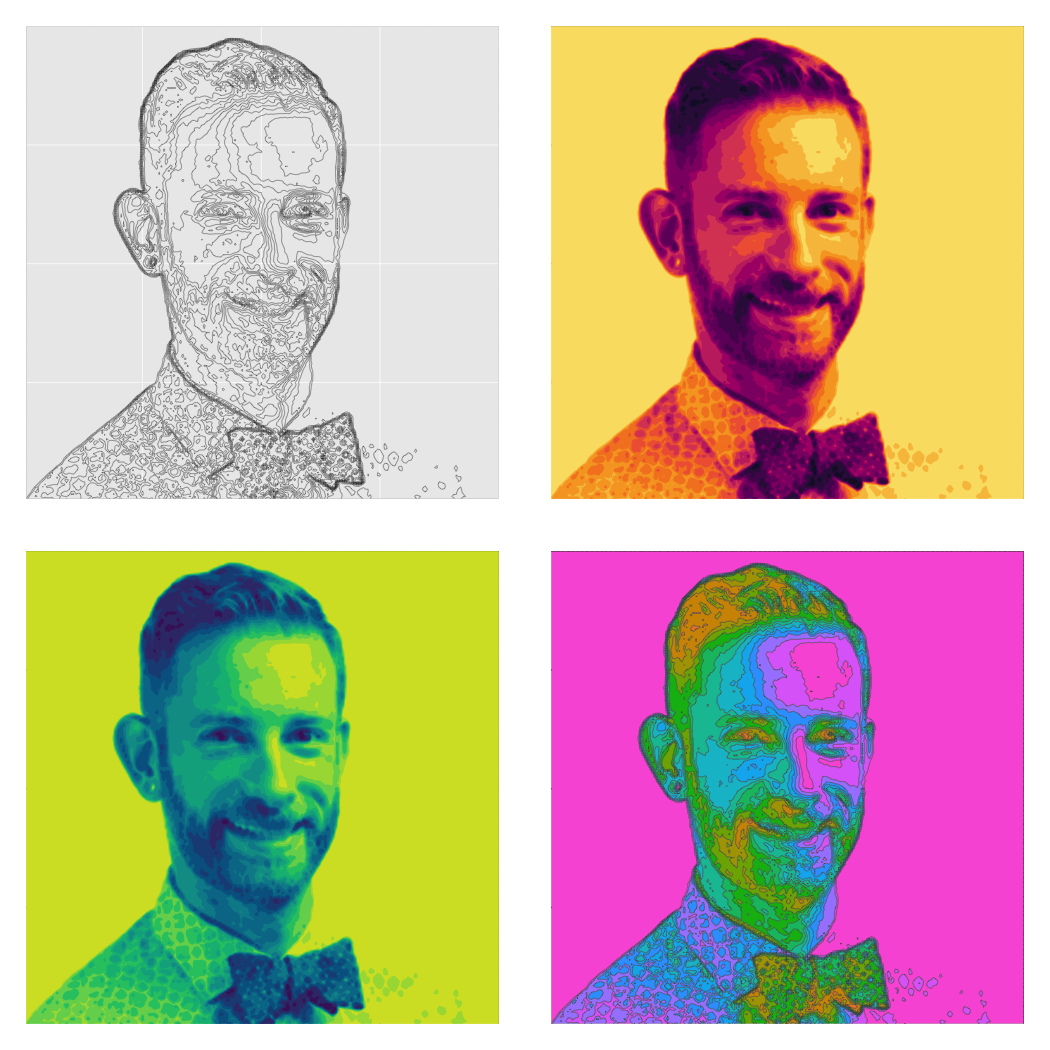
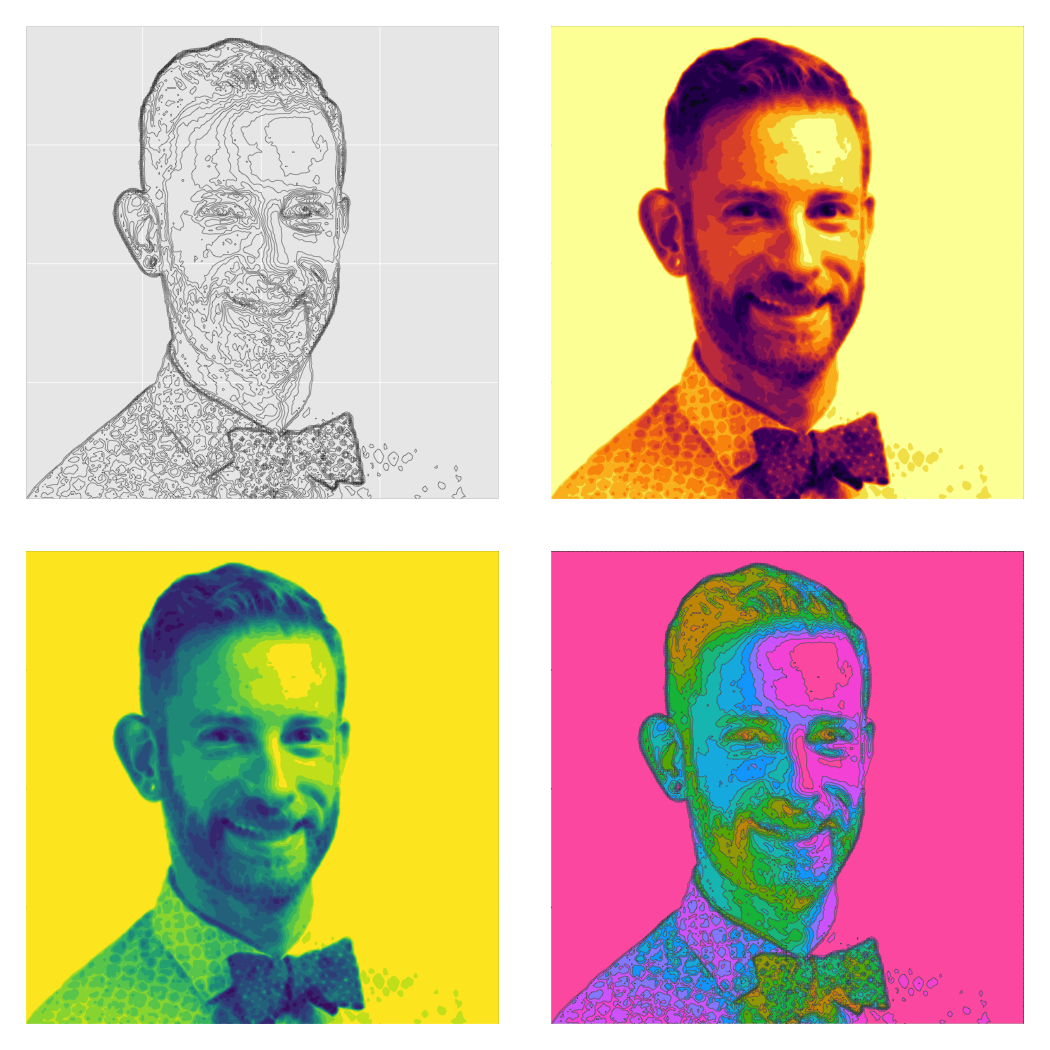
cleanup, bump version

diff --git a/README.md b/README.md
@@ -163,17 +163,13 @@ library(magick)
 #> Linking to ImageMagick 6.9.9.39
 #> Enabled features: cairo, fontconfig, freetype, lcms, pango, rsvg, webp
 #> Disabled features: fftw, ghostscript, x11
-library(sf)
-library(ggplot2)
-library(isoband)
-library(colorspace)
 
 sf_from_image <- function(image) {
   image_gray <- image %>% image_quantize(colorspace = "gray")
   image_raster <- as.raster(image_gray)
   d <- dim(image_raster)
   m <- matrix(c((255-col2rgb(image_raster)[1,])), nrow = d[1], ncol = d[2], byrow = TRUE)
-  b <- isobands(1:d[2], d[1]:1, m, 20*(-1:13), 20*(0:14))
+  b <- isobands(1:d[2], d[1]:1, m, 20*(0:13), 20*(1:14))
   bands <- iso_to_sfg(b)
   data <- st_sf(
     level = letters[1:length(bands)],
@@ -209,8 +205,14 @@ p3 <- ggplot(img_sf) +
 
 cowplot::plot_grid(
   p1,
-  p2 + scale_fill_discrete_sequential(aesthetics = c("color", "fill"), palette = "Inferno", guide = "none", rev = TRUE),
-  p2 + scale_fill_discrete_sequential(aesthetics = c("color", "fill"), palette = "Viridis", guide = "none", rev = TRUE),
+  p2 + scale_fill_viridis_d(
+    aesthetics = c("color", "fill"), option = "B", guide = "none",
+    direction = -1
+  ),
+  p2 + scale_fill_viridis_d(
+    aesthetics = c("color", "fill"), option = "D", guide = "none",
+    direction = -1
+  ),
   p3,
   scale = 0.9
 )
@@ -236,7 +238,7 @@ microbenchmark::microbenchmark(
 #>                               isolines(1:ncol(volcano), 1:nrow(volcano), volcano, 10 * (10:18))
 #>             isobands(1:ncol(volcano), 1:nrow(volcano), volcano, 10 * (9:17),      10 * (10:18))
 #>       min       lq     mean   median       uq       max neval
-#>  1.675161 1.812835 2.694624 2.129540 2.744745 16.622916   100
-#>  1.761252 1.850351 2.429487 1.959520 2.346297  9.678578   100
-#>  4.376592 4.630960 5.593479 4.959469 5.679508 13.972505   100
+#>  1.623163 1.754017 2.316944 1.892529 2.178831 10.729141   100
+#>  1.750317 1.857125 2.276085 1.947959 2.359221  9.654656   100
+#>  4.382390 4.625374 5.072554 4.800300 5.340838  9.739161   100
 ```
